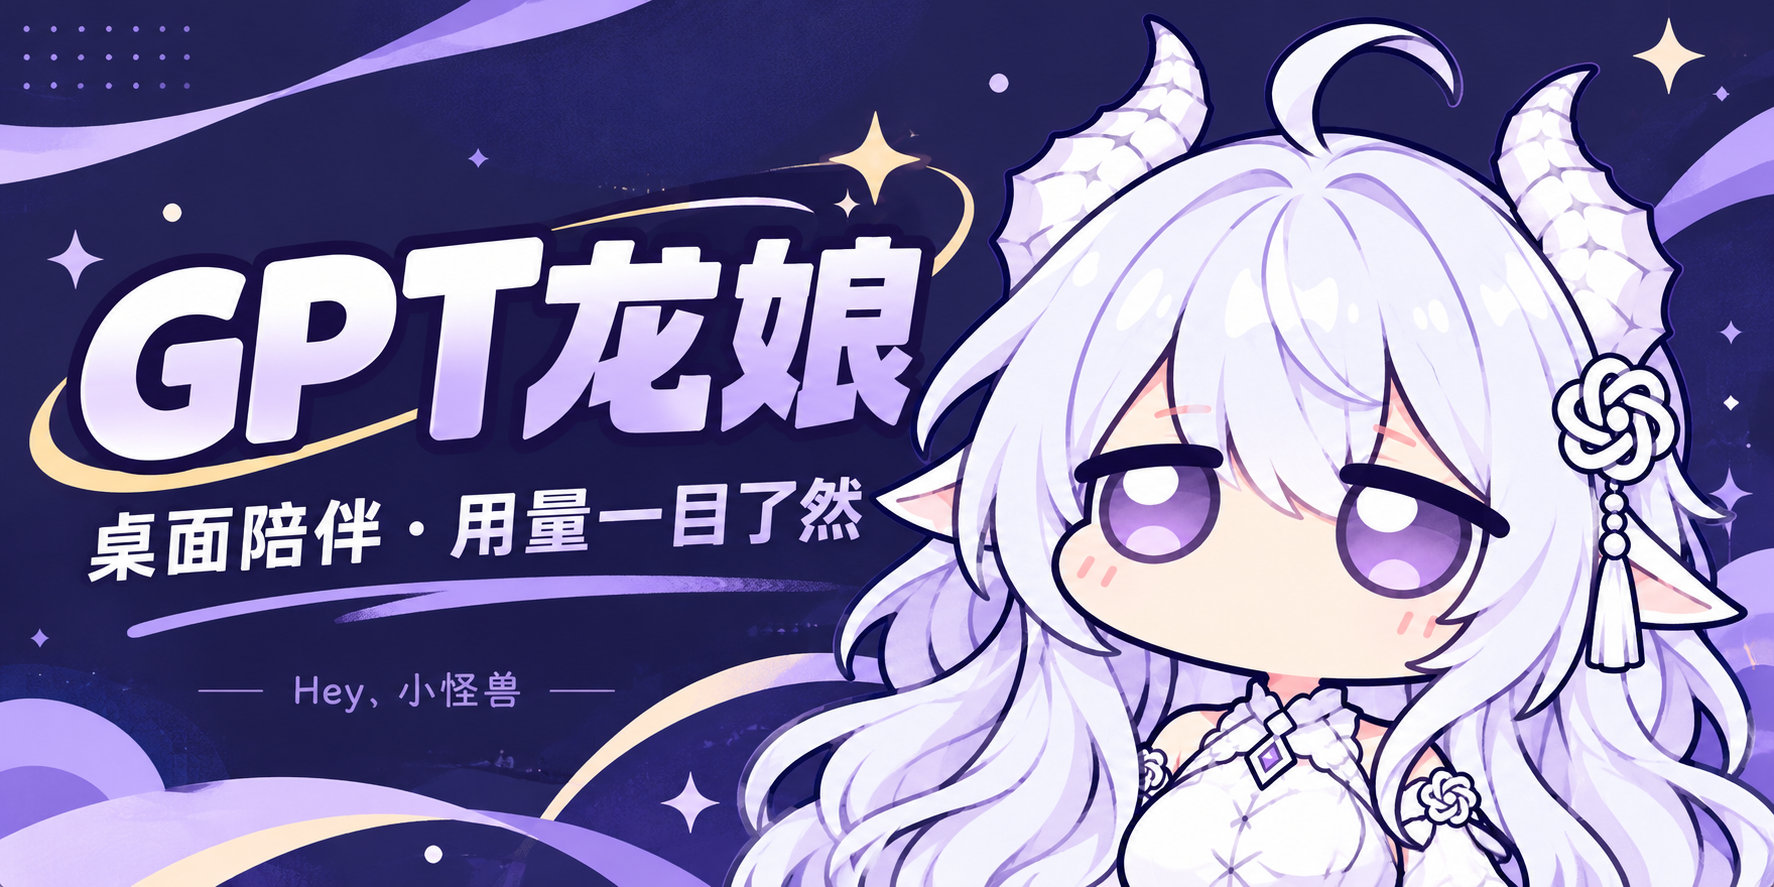
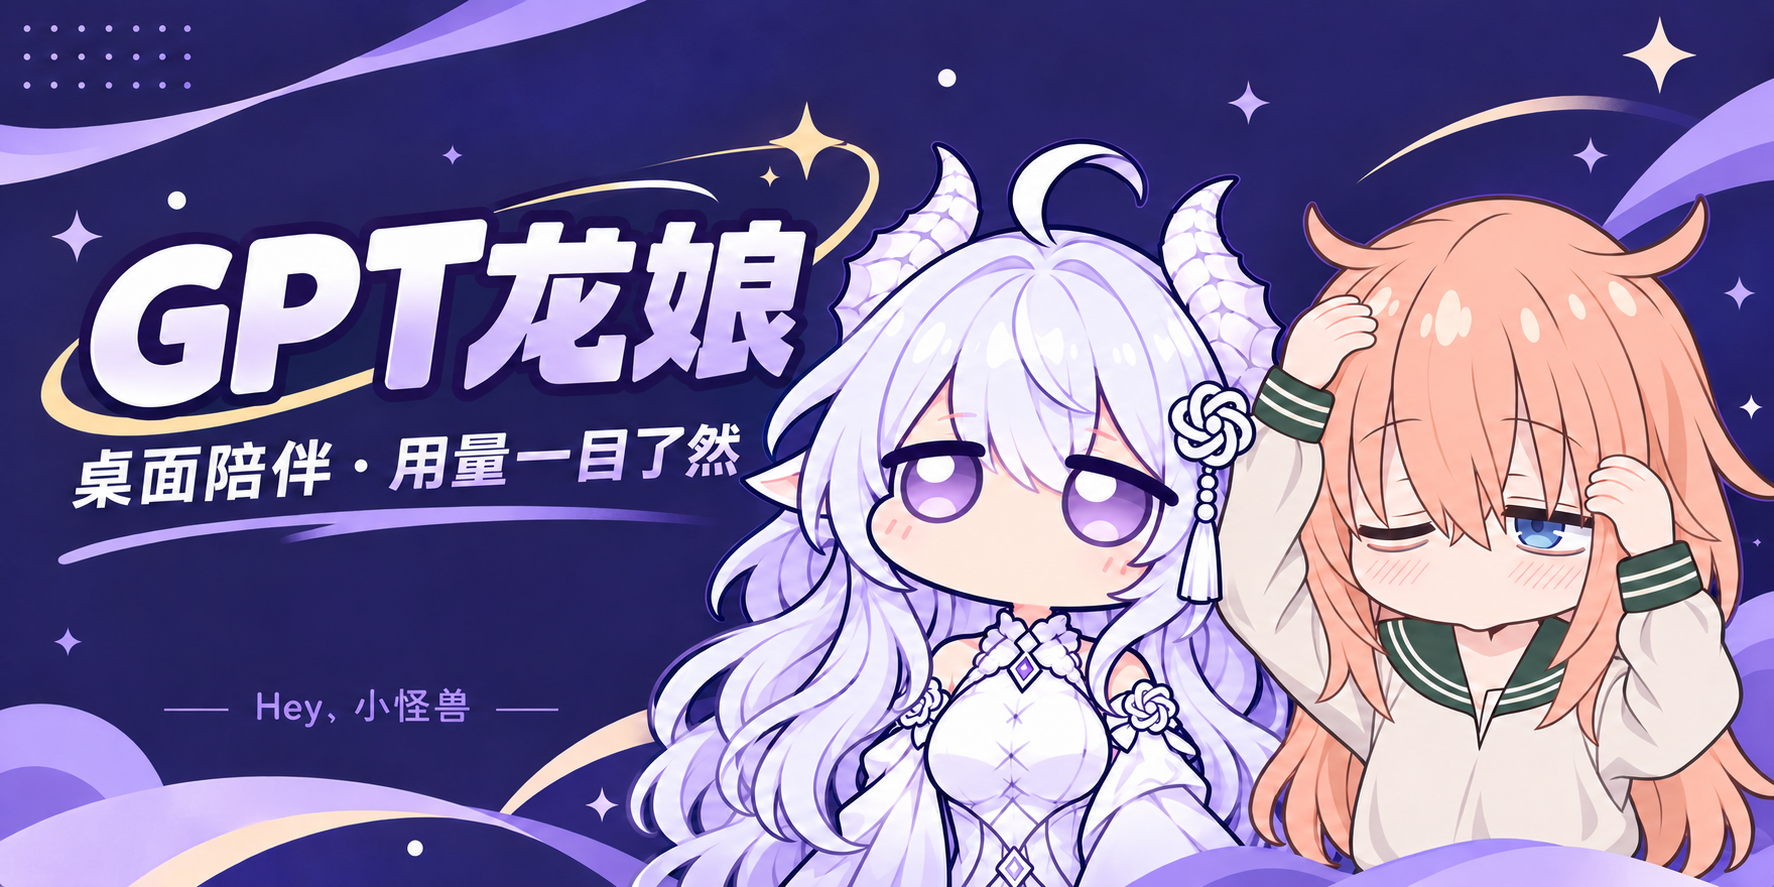
docs: 更新龙娘与麻吕双角色海报

diff --git a/README.md b/README.md
@@ -1,6 +1,6 @@
 # GPT龙娘（DragonGirl Desktop Companion）
 
-![GPT龙娘：桌面陪伴 · 用量一目了然](assets/readme/banner.png)
+![GPT龙娘与麻吕：桌面陪伴 · 用量一目了然](assets/readme/banner.png)
 
 <p align="center">
   <a href="https://github.com/InhamiRei/Codex-DragonGirl/releases/latest"><img alt="下载最新版" src="https://img.shields.io/github/v/release/InhamiRei/Codex-DragonGirl?label=Release&color=8b72d9" /></a>
